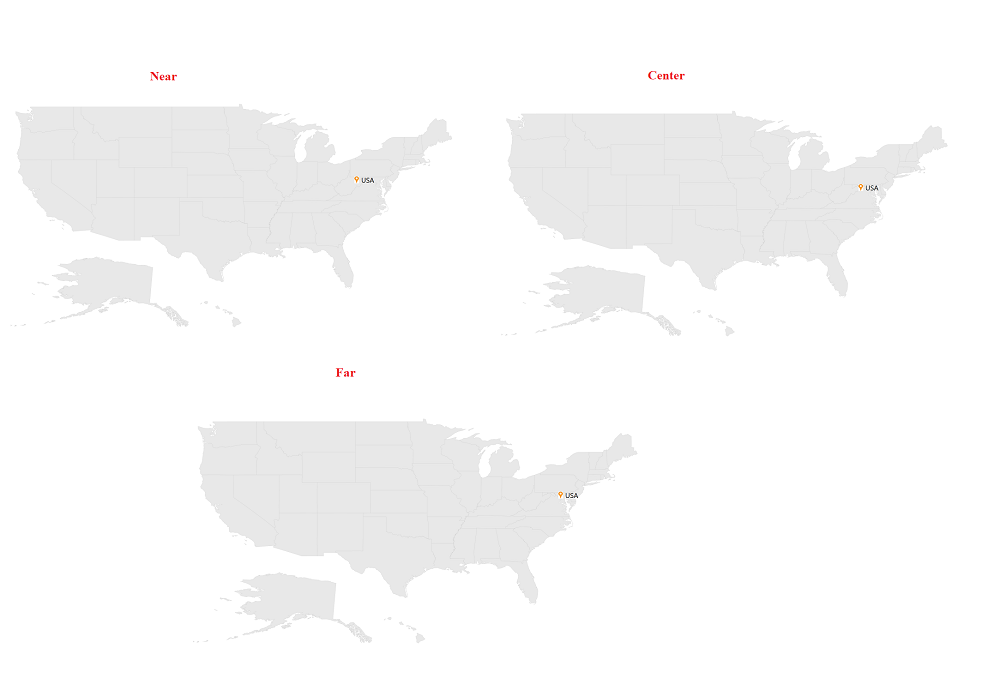
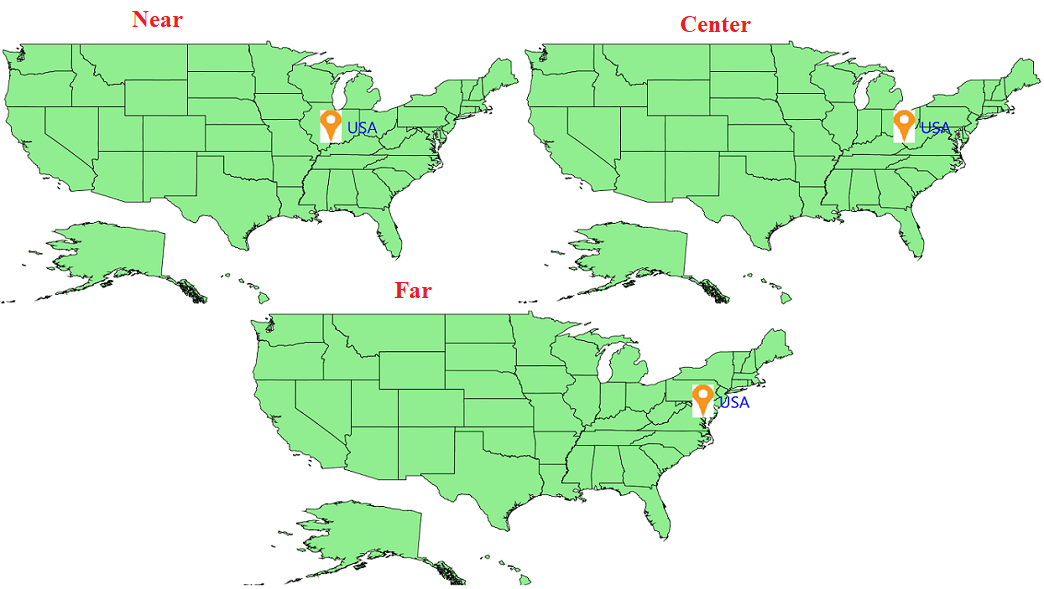
Changed the image

diff --git a/wpf/Maps/Markers.md b/wpf/Maps/Markers.md
@@ -261,15 +261,28 @@ The `HorizontalAlignment` property is used to position the marker icon in x-axis
 {% tabs %}
 
 {% highlight xaml %}
-
-        <Grid>
+        <ResourceDictionary>
+            <DataTemplate x:Key="markerTemplate">
+                <Grid>
+                    <StackPanel Margin="-12,-30,0,0" Height="50" Orientation="Horizontal">
+                        <Image Source="pin.png" Height="30" />
+                        <TextBlock HorizontalAlignment="Center" Foreground="Blue" VerticalAlignment="Center" Margin="10" FontSize="30" FontFamily="Segoe UI" Text="{Binding Label}"/>
+                    </StackPanel>
+                </Grid>
+            </DataTemplate>
+        </ResourceDictionary>
+         <Grid>
             <syncfusion:SfMap>
                 <syncfusion:SfMap.Layers>
-                    <syncfusion:ShapeFileLayer Uri="Maps.ShapeFiles.usa_state.shp" MarkerIconSize="30,30" MarkerLabelFontSize="30" MarkerHorizontalAlignment="Near" Markers="{Binding Models}"  >
+                    <syncfusion:ShapeFileLayer   MarkerTemplate="{StaticResource markerTemplate}"  Uri="Maps.ShapeFiles.usa_state.shp"  MarkerHorizontalAlignment="Near" Markers="{Binding Models}"  >
+                        <syncfusion:ShapeFileLayer.ShapeSettings>
+                            <syncfusion:ShapeSetting ShapeFill="LightGreen" ShapeStroke="Black" ShapeStrokeThickness="1">
+                            </syncfusion:ShapeSetting>
+                        </syncfusion:ShapeFileLayer.ShapeSettings>
                     </syncfusion:ShapeFileLayer>
                 </syncfusion:SfMap.Layers>
             </syncfusion:SfMap>
-        </Grid>	
+        </Grid>
 
 {% endhighlight %}
 
